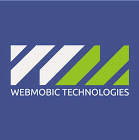
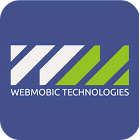
Changes 1.6

diff --git a/index.html b/index.html
@@ -12,7 +12,11 @@
 
 		<!-- Header -->
 			<header id="header" class="alt">
-				<div class="logo"><a href="index.html">Webmobic<span>Tech</span></a></div>
+				<div class="logo">
+<!--                    <a href="index.html">Webmobic<span>Tech</span></a>-->
+                <img src="images/webmobictech-webmobic-logo_transparent.png" width="78px" heigh="36px"/>
+                     
+                </div>
 				<a href="#menu">Menu</a>
 			</header>
 
@@ -29,10 +33,10 @@
 					<header>
 						<h1>WebmobicTech</h1>
                         <p class="m-b-20">Find Our Apps On Playstore</p>
-                        <img src="images/paly-store-webmobictech-webmobic.png" width="180px" class="m-b-20"/>
+                        <a href="https://play.google.com/store/apps/developer?id=WebMobic+Technologies" target="_blank"><img src="images/paly-store-webmobictech-webmobic.png" width="180px" class="m-b-20"/></a>
                         
 						<p class="m-t-20 f-20 m-b-10">site is under maintenance</p>
-                        <a href="#main" class="button small scrolly btn-small">Contact Us</a>
+                        <a href="#main" class="btn btn-primary waves-effect">Contact Us</a>
 					</header>
 					
                     
@@ -45,7 +49,7 @@
 			<div class="section p-0" id="main">
 
 				<!-- Section -->
-                <section class="wrapper style1"><div class="container align-center"><h1 class="p-20">webmobictech@gmail.com</h1></div></section>
+                <section class="wrapper style1"><div class="container align-center"><h1 class="p-20 f-20">webmobictech@gmail.com</h1></div></section>
         </div>
 
 		<!-- Footer -->

diff --git a/assets/css/main.css b/assets/css/main.css
@@ -1559,14 +1559,7 @@
 		-ms-overflow-style: scrollbar;
 	}
 
-	@media screen and (max-width: 480px) {
-
-		html, body {
-			min-width: 320px;
-		}
-
-	}
-
+	
 	body {
 		background: #fff;
 	}
@@ -1668,14 +1661,15 @@
 		}
 
 	h1 {
-		font-size: 3em;
+/*		font-size: 3em;*/
 		margin-bottom: .25em;
+        font-size: 100%;
 	}
 
 		@media screen and (max-width: 736px) {
 
 			h1 {
-				font-size: 2.5em;
+/*				font-size: 2.5em;*/
 			}
 
 		}
@@ -3835,10 +3829,12 @@
 				#banner p {
 					font-size: 1.25em;
 				}
+/*
 
 				#banner .button {
 					width: 100%;
 				}
+*/
 
 		}
 
@@ -3916,3 +3912,6 @@
 			}
 
 		}
+
+
+a{cursor: pointer;}

diff --git a/assets/css/app_1.css b/assets/css/app_1.css
@@ -77,7 +77,7 @@ dfn {
 }
 
 h1 {
-  font-size: 2em;
+/*  font-size: 2em;*/
   margin: 0.67em 0;
 }
 
@@ -1606,7 +1606,7 @@ h6 .small,
 
 h1,
 .h1 {
-  font-size: 33px;
+/*  font-size: 33px;*/
 }
 
 h2,
